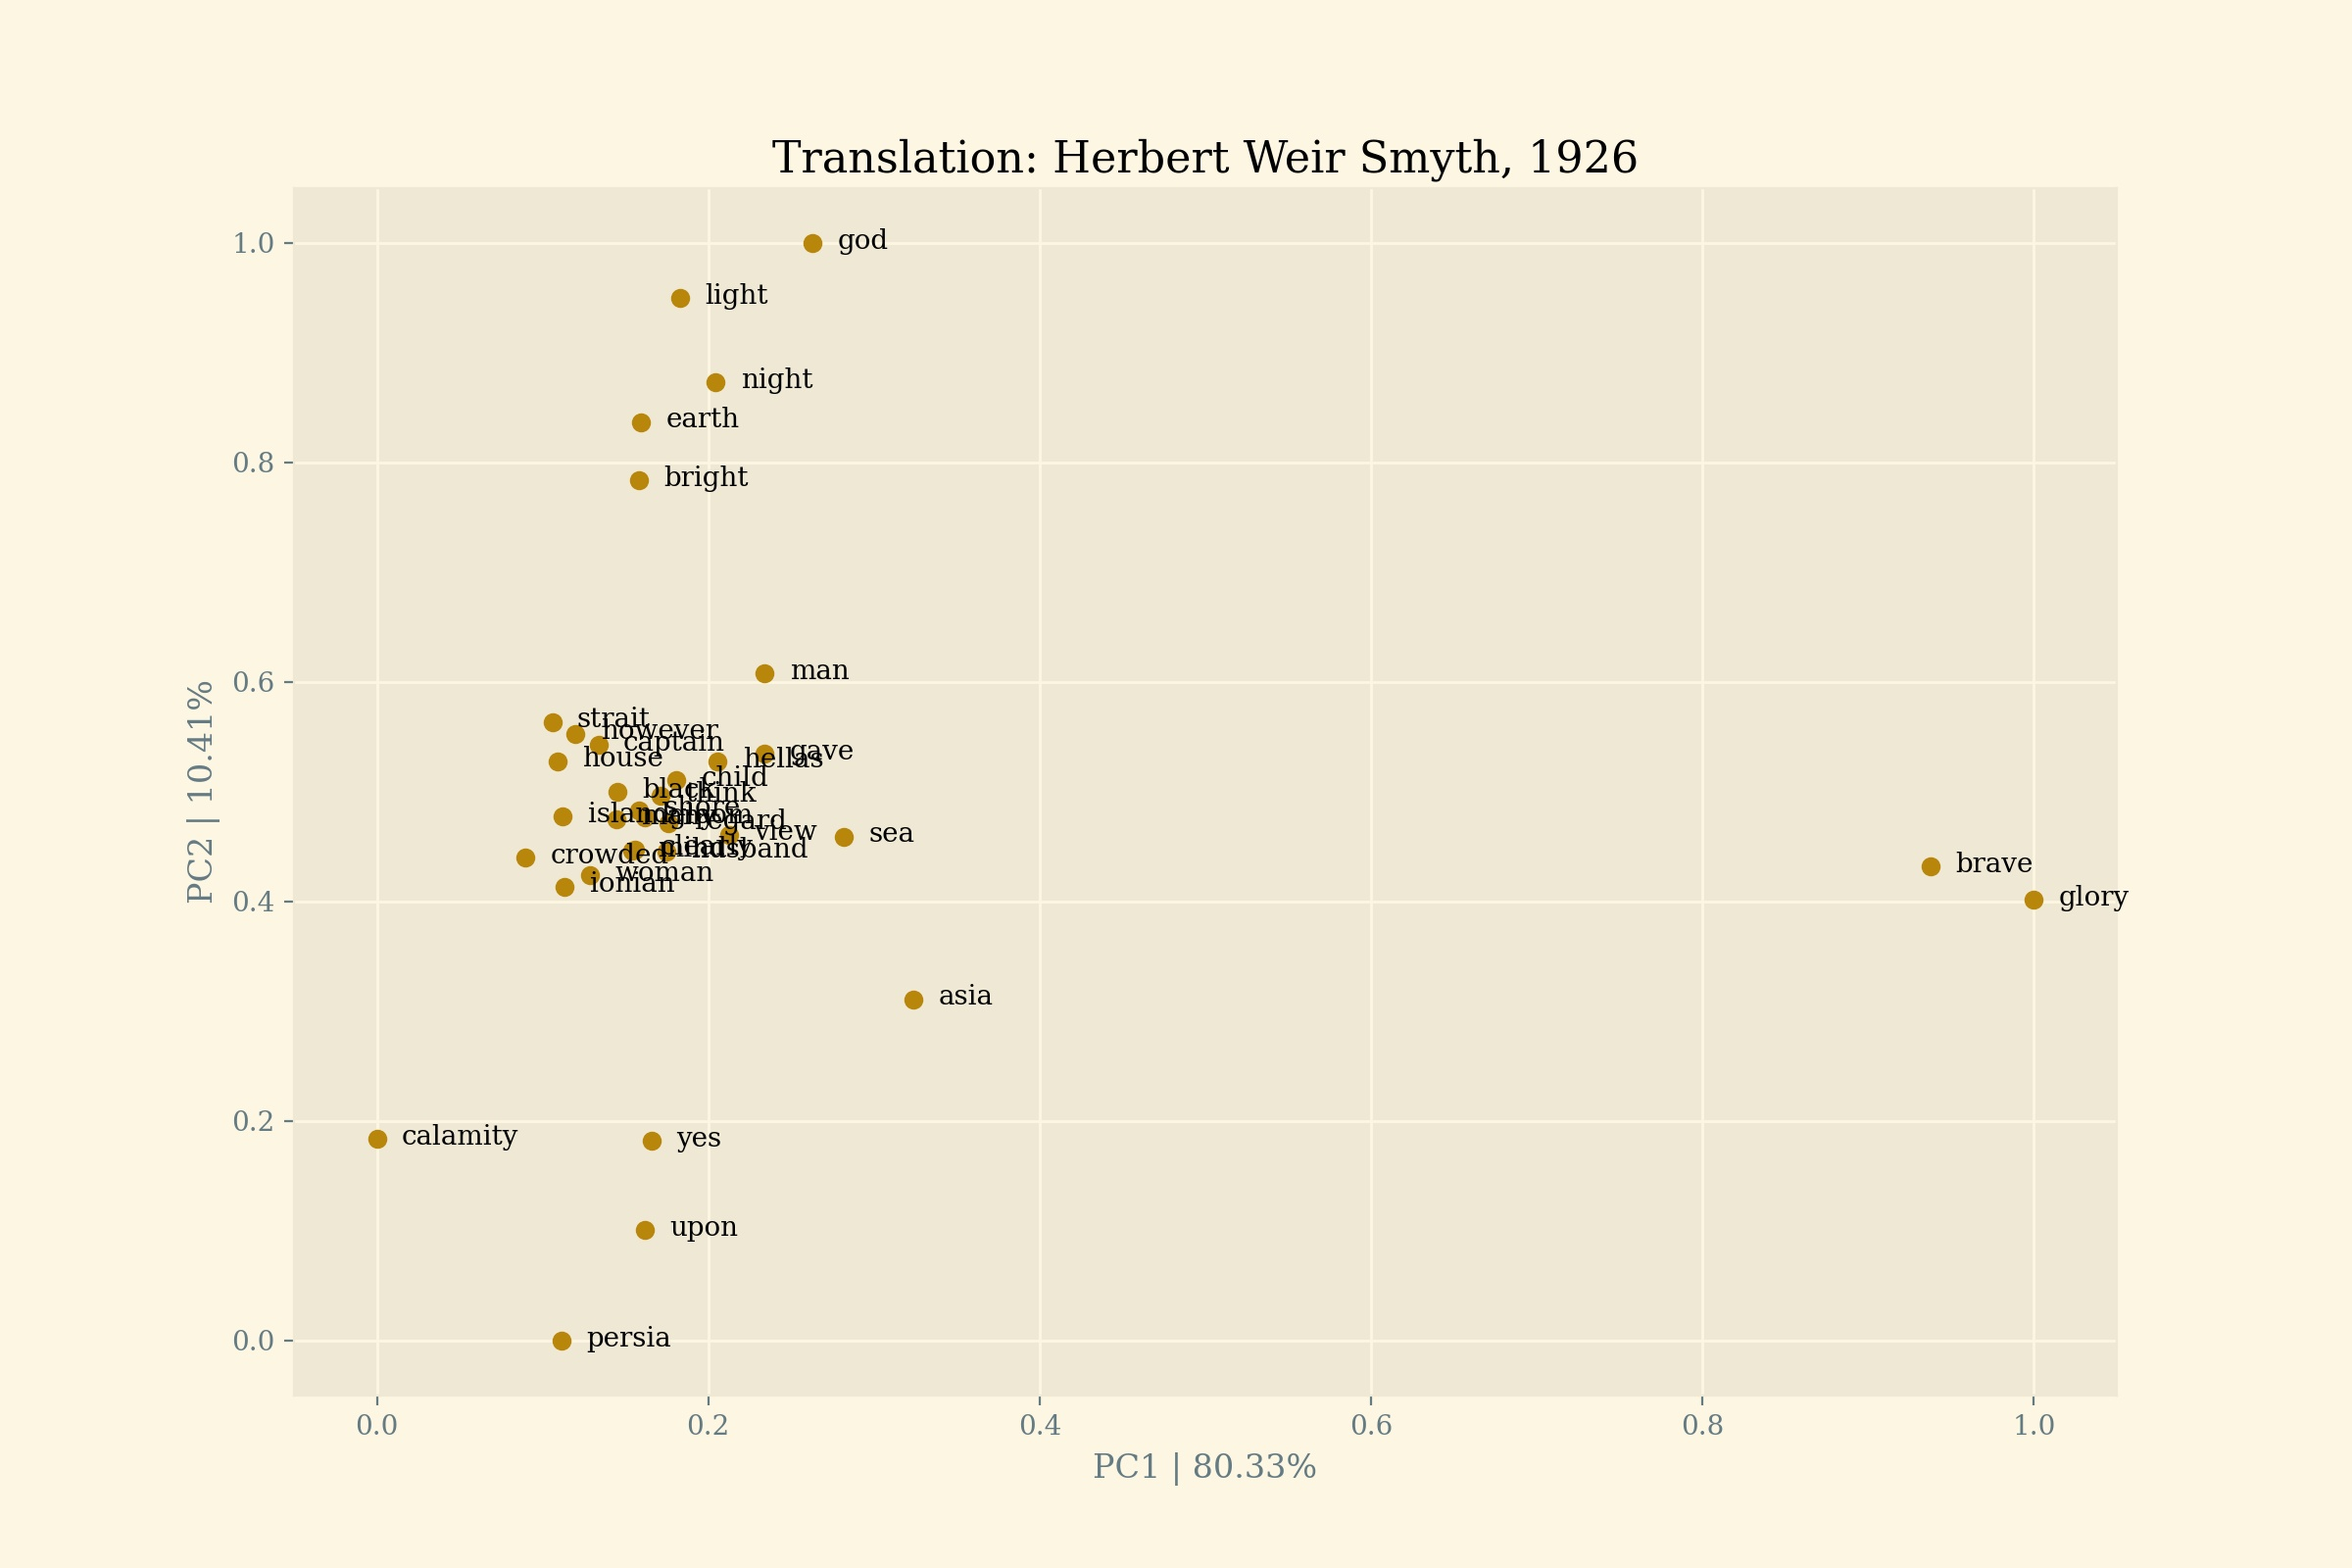
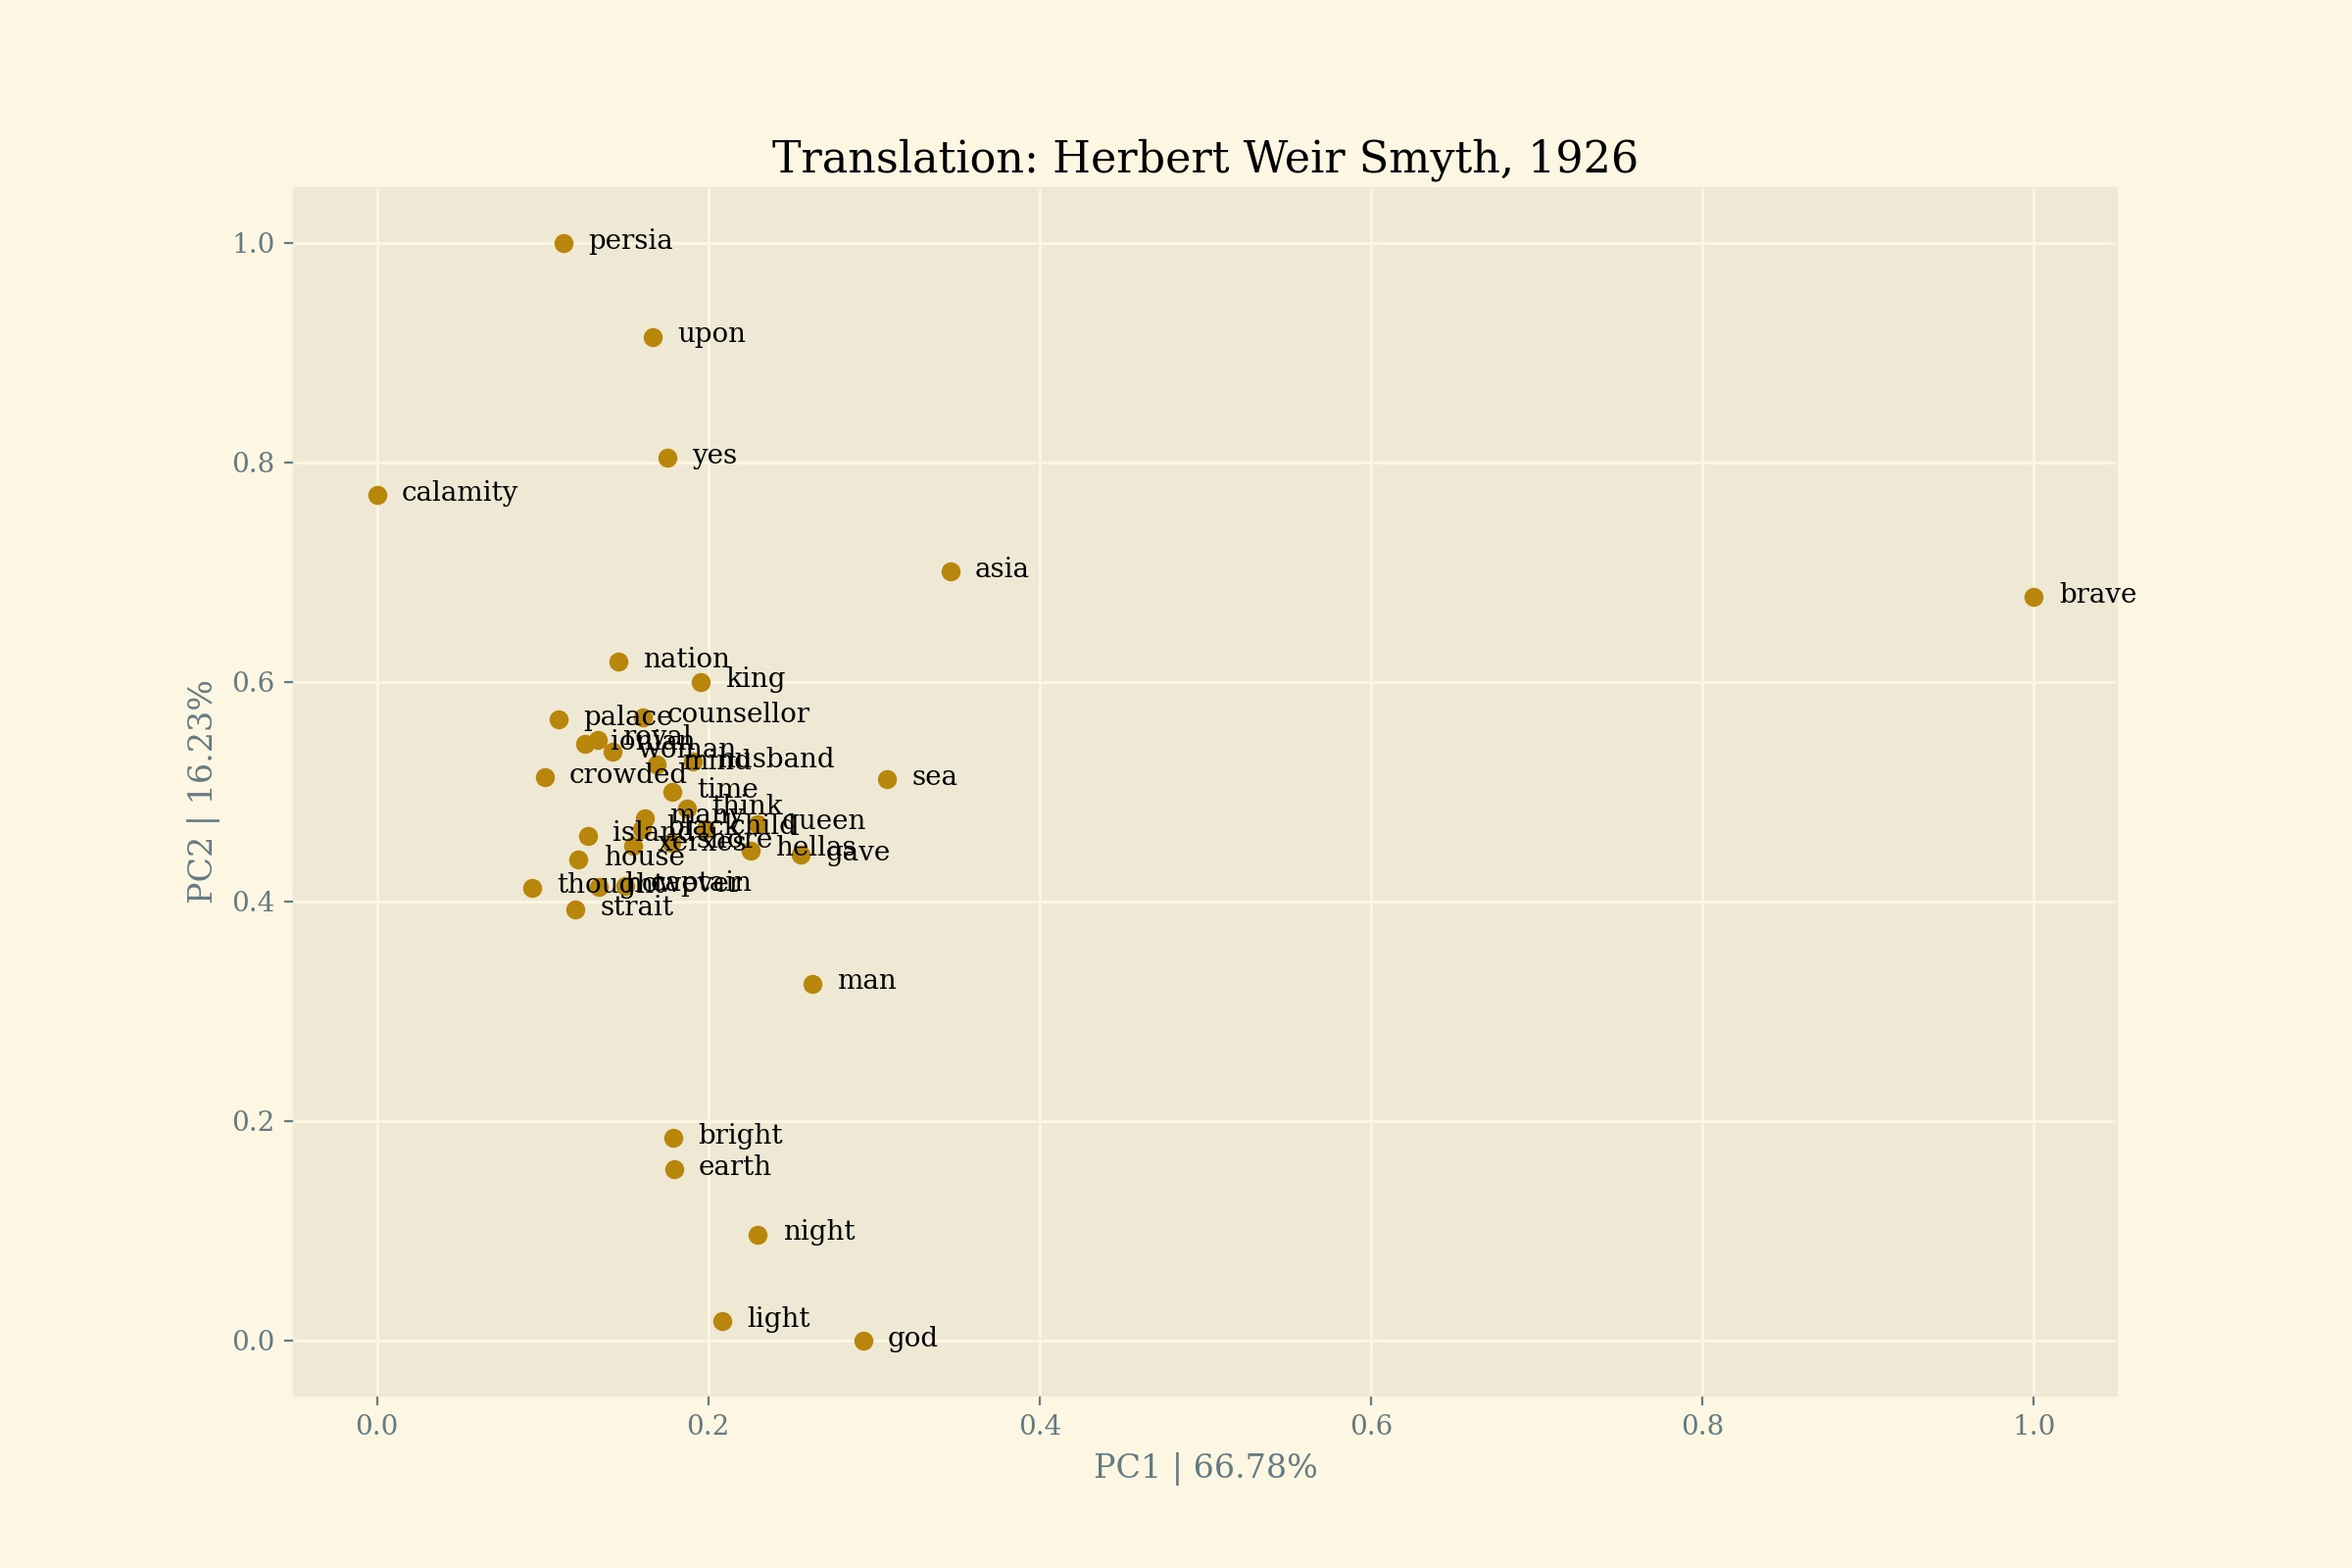
updated settings

diff --git a/core/settings.py b/core/settings.py
@@ -47,7 +47,8 @@ key_words = {
         'woman', 
         'god', 
         'brave',
-        'glory'
+        'king',
+        'xerxes'
     ],
     'Gallicum': [
         'man',
